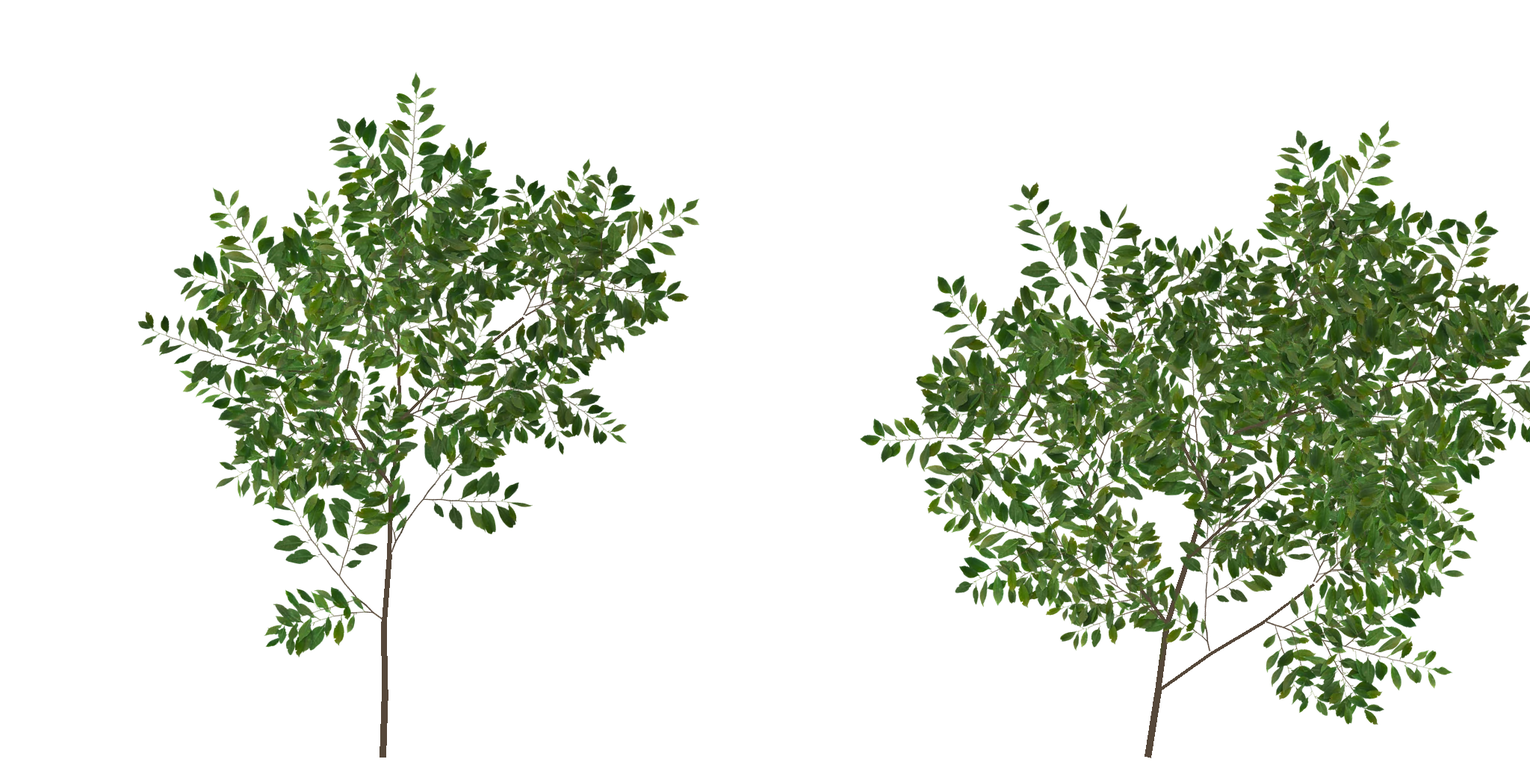
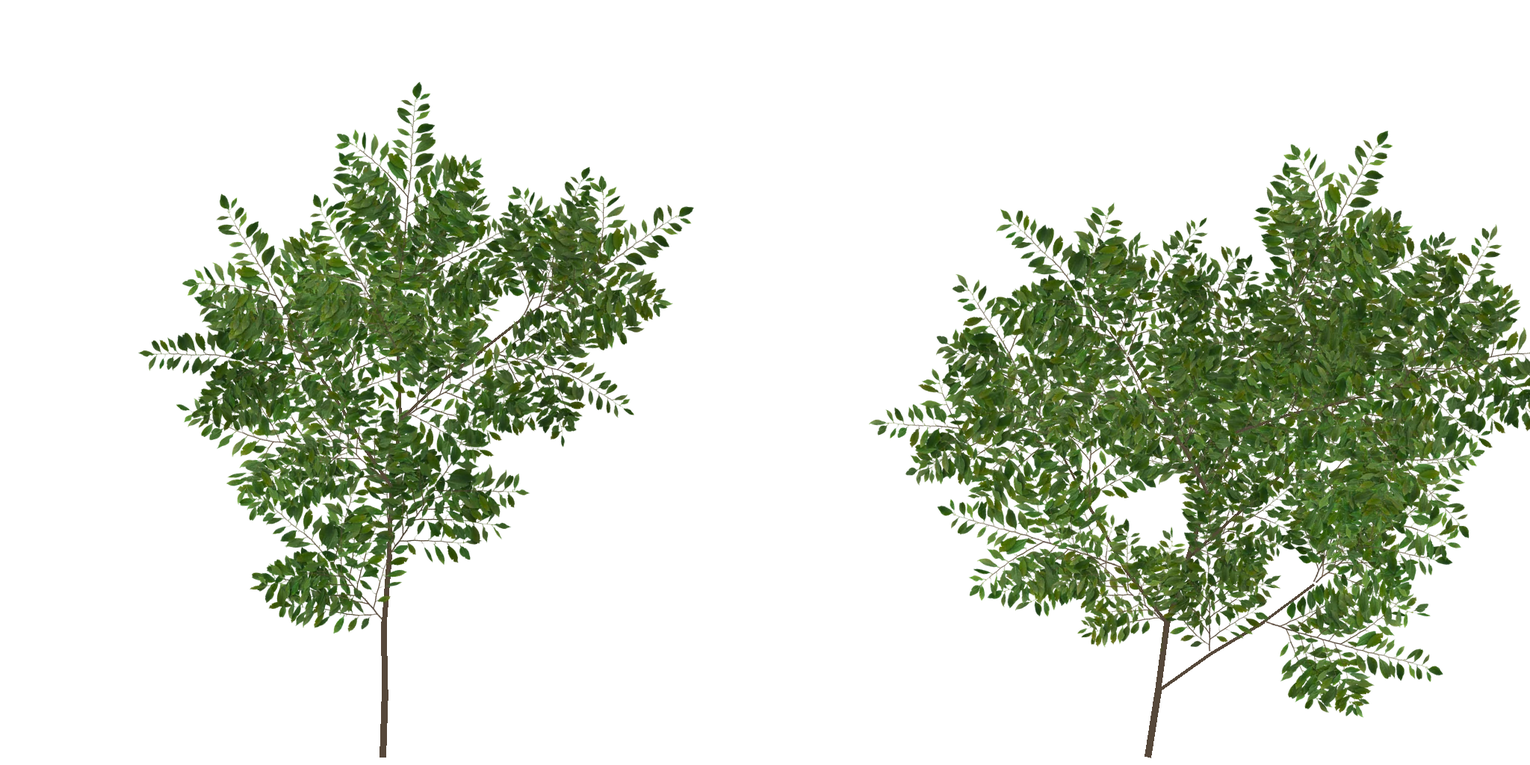
forest-pool: round 11 partial work (stable layout, distant leaf scale, riffle water) — unreviewed
Claude-Session: https://claude.ai/code/session_018FYuZc6D6uuurfGoeetqv3

Changed region(s): [[0.5625, 0.1562, 1.0, 0.9375], [0.0938, 0.0938, 0.4688, 0.875]]

diff --git a/forest-pool/src/layout.js b/forest-pool/src/layout.js
@@ -1,0 +1,2 @@
+// Locked forest layout (x, z, lod, type, special). Edit entries here; nothing else reshuffles.
+export const LAYOUT = {"t":[[-17.63,-48.76,"mid","beech",0],[-15.54,-48.01,"mid","young",0],[-19.43,-47.31,"mid","old",0],[13.01,19.19,"near","beech",0],[-27.67,-20.47,"mid","beech",0],[-15.07,28.19,"mid","beech",0],[-24.65,-41.01,"mid","beech",0],[-38.73,-35.73,"mid","snag",0],[-49.31,-18.42,"mid","old",0],[-48.45,-17.4,"mid","beech",0],[39.11,-26.57,"mid","beech",0],[39.33,-28.34,"mid","beech",0],[37.11,-26.27,"mid","beech",0],[51.05,-3.67,"mid","beech",0],[11.41,-29.35,"near","beech",0],[32.47,30.93,"mid","beech",0],[30.73,31.24,"mid","young",0],[-45.15,-33.54,"mid","snag",0],[-45.61,-31.87,"mid","beech",0],[4.14,23.83,"near","old",0],[10.76,-1.37,"near","young",0],[28.76,40.42,"mid","beech",0],[12.48,-24.72,"near","beech",0],[11.66,-26.96,"near","beech",0],[-27.77,-33.72,"mid","beech",0],[-19.2,13.12,"near","old",0],[24.79,5.63,"near","beech",0],[23.22,5.82,"near","young",0],[27,6.25,"near","old",0],[46.97,20.3,"mid","beech",0],[-17.32,49.19,"mid","beech",0],[4.84,14.31,"near","young",0],[6.06,16.5,"near","beech",0],[-29.41,-12.23,"near","beech",0],[-30.68,-11.69,"mid","young",0],[-28.8,-14.48,"mid","beech",0],[8.23,-42.92,"mid","young",0],[-30.45,38.52,"mid","beech",0],[-3.02,39.85,"mid","snag",0],[-3.09,41.88,"mid","beech",0],[41.94,14.42,"mid","snag",0],[39.63,13.54,"mid","young",0],[40.46,14.94,"mid","young",0],[-45.23,-6.65,"mid","beech",0],[46.79,4.59,"mid","beech",0],[45.14,2.76,"mid","beech",0],[45.98,6.69,"mid","old",0],[34.78,19.03,"mid","beech",0],[-28.65,43.04,"mid","beech",0],[-29.8,41.9,"mid","beech",0],[-36.89,30.35,"mid","beech",0],[-37.55,31.61,"mid","young",0],[-16.66,18.17,"near","old",0],[-16.32,20.02,"near","beech",0],[33.03,-7.73,"mid","beech",0],[-44.87,25.35,"mid","old",0],[-46.6,26.54,"mid","beech",0],[6.55,40.49,"mid","old",0],[-28.39,14.73,"mid","beech",0],[-29.41,13.55,"mid","young",0],[17.57,24.56,"mid","beech",0],[17.28,22.72,"mid","beech",0],[26.74,-19.98,"mid","young",0],[10.55,7.54,"near","beech",0],[16.51,-42.78,"mid","beech",0],[17.17,-44.05,"mid","beech",0],[18.16,-25.44,"near","beech",0],[22.35,-3.86,"near","beech",0],[22.25,-6.42,"near","beech",0],[20.48,-2.14,"near","beech",0],[-41.7,19.32,"mid","snag",0],[-6.85,-10.78,"near","young",0],[-8.47,-12.52,"near","beech",0],[29.47,17.66,"mid","beech",0],[27.54,17.37,"mid","young",0],[8.23,34,"mid","beech",0],[7.36,32.68,"mid","beech",0],[50.61,-17.61,"mid","young",0],[-24.04,-16.32,"near","beech",0],[-24.56,-14.73,"near","beech",0],[-22.43,-17.93,"near","old",0],[-15.68,38.93,"mid","beech",0],[-13.18,-15.91,"near","beech",0],[-12.6,-17.09,"near","young",0],[-13.86,-14.07,"near","beech",0],[39.06,4.48,"mid","beech",0],[40.71,4.45,"mid","young",0],[22.9,-13.76,"near","beech",0],[25.27,-13.86,"near","old",0],[-4.38,-56.05,"mid","snag",0],[-11.55,13.52,"near","beech",0],[24.49,34.88,"mid","young",0],[17.43,-10.78,"near","beech",0],[17,-17.65,"near","old",0],[39.8,-18.77,"mid","beech",0],[39.15,-16.79,"mid","beech",0],[-24.17,39.55,"mid","snag",0],[28.61,-6.01,"near","beech",0],[-0.02,-37.45,"mid","beech",0],[-16.2,-9.18,"near","beech",0],[-16.48,-7.63,"near","young",0],[-18.14,-26.81,"near","beech",0],[-9.94,41.89,"mid","beech",0],[11.25,-47.41,"mid","beech",0],[11.94,-44.82,"mid","beech",0],[13.64,-46.31,"mid","beech",0],[31.05,-23.67,"mid","snag",0],[27.27,43.74,"mid","beech",0],[5.04,51.03,"mid","beech",0],[-14.63,-38.05,"mid","beech",0],[48.48,0.55,"mid","old",0],[-24.37,25.81,"mid","beech",0],[26.2,-8.32,"near","old",0],[44.79,-9.97,"mid","beech",0],[-4.68,46.49,"mid","beech",0],[-22.84,-5.81,"near","beech",0],[-39.8,-5.9,"mid","beech",0],[-38.73,-8.07,"mid","young",0],[-38.07,-5.84,"mid","old",0],[25.75,1.05,"near","beech",0],[-3.16,-21.61,"near","old",0],[-38.3,23.49,"mid","old",0],[-39.62,23.28,"mid","beech",0],[31.56,11.68,"mid","beech",0],[-28.56,-39.4,"mid","young",0],[-29.89,21.81,"mid","young",0],[-34.14,18.47,"mid","beech",0],[16.47,-49.21,"mid","beech",0],[15.74,-50.99,"mid","old",0],[-44.27,-26.22,"mid","young",0],[26.44,-42.17,"mid","beech",0],[-4.13,25.27,"near","beech",0],[-4.65,27.62,"mid","beech",0],[-4.63,22.89,"near","old",0],[19.82,-8.54,"near","old",0],[-6.7,-48.47,"mid","beech",1],[2.82,-39.76,"mid","beech",1],[-6.93,-26.98,"near","old",1],[4.24,-44.82,"mid","old",1],[-8.86,-30.07,"mid","old",1],[8.31,-28.56,"near","old",1],[-13.87,-34.55,"mid","beech",1],[9.93,-51.36,"mid","beech",1],[-4.62,-51.83,"mid","beech",1],[-9.5,-14,"near","snag",1],[8.79,-12.84,"near","snag",1],[93.09,-54.9,"far","beech",0],[-1.84,-146.94,"far","old",0],[118.63,-133.25,"far","beech",0],[-74.63,-9.55,"far","old",0],[-72.34,152.93,"far","young",0],[-116.3,111.94,"far","beech",0],[-135.59,-119.89,"far","beech",0],[-142.87,81.75,"far","old",0],[-32.76,90.82,"far","beech",0],[33.77,-38.85,"far","beech",0],[32.07,153.03,"far","snag",0],[113.15,8.15,"far","beech",0],[-81.46,111.79,"far","snag",0],[-169.58,2.59,"far","young",0],[31.27,80.44,"far","beech",0],[59.05,-106.85,"far","old",0],[78.36,125.45,"far","beech",0],[66.2,98.21,"far","young",0],[-11.76,-138.14,"far","old",0],[75.59,142.66,"far","beech",0],[31.23,66.14,"far","snag",0],[39.91,129.88,"far","young",0],[-1.03,-100.17,"far","beech",0],[-133.6,-69.58,"far","beech",0],[-28.82,-174.12,"far","snag",0],[61.52,-44.36,"far","beech",0],[83.51,-30.81,"far","beech",0],[-120.44,36.41,"far","old",0],[-54.55,32.6,"far","beech",0],[2.43,67.72,"far","young",0],[-156.79,-40.5,"far","beech",0],[-43.37,-61.77,"far","beech",0],[-157.79,-0.94,"far","beech",0],[-98.91,-33.55,"far","old",0],[-34.15,99.53,"far","beech",0],[112.83,-17.22,"far","beech",0],[-140.56,102.23,"far","beech",0],[-114.29,-57.27,"far","young",0],[-51.88,72.15,"far","old",0],[172.44,-21.16,"far","old",0],[70.39,-88.83,"far","beech",0],[-40.45,-44.15,"far","beech",0],[-92.55,-68.02,"far","beech",0],[-10.54,132.27,"far","young",0],[-28.68,-161.96,"far","old",0],[15.63,71.71,"far","beech",0],[26.09,118.93,"far","snag",0],[161.65,-43.99,"far","beech",0],[-62.3,11.97,"far","beech",0],[-56.76,-56.63,"far","beech",0],[25.88,-150.55,"far","beech",0],[154.29,-77.81,"far","young",0],[55.13,30.98,"far","snag",0],[-14.34,148.02,"far","old",0],[139.41,10.93,"far","beech",0],[-1.7,118.83,"far","beech",0],[133.35,-115.67,"far","beech",0],[101.27,-59.17,"far","beech",0],[32.07,132.29,"far","young",0],[-41.44,76.06,"far","old",0],[35.55,-155.24,"far","beech",0],[-80.03,79.69,"far","beech",0],[56.2,-169.45,"far","beech",0],[-49.65,123.41,"far","beech",0],[-13.08,122.63,"far","beech",0],[93.6,107.75,"far","old",0],[-115.99,-94.33,"far","young",0],[79.58,105.42,"far","beech",0],[-82.13,-94.21,"far","old",0],[31.18,-77.59,"far","beech",0],[54.84,166.45,"far","young",0],[-78.47,-124.64,"far","old",0],[16.28,-125.57,"far","young",0],[-36.94,-135.39,"far","beech",0],[54.5,49.08,"far","old",0],[106.12,-19.8,"far","beech",0],[72.87,-146.66,"far","old",0],[14.95,171.46,"far","beech",0],[-21.73,94.81,"far","beech",0],[-100.3,-3.57,"far","old",0],[-18.6,115.8,"far","old",0],[-36.8,-155.07,"far","old",0],[-172.91,33.86,"far","old",0],[54.59,-155,"far","beech",0],[-28.02,-156.39,"far","snag",0],[-143.04,-88.73,"far","old",0],[-71.64,25.93,"far","young",0],[-16.01,161.17,"far","young",0],[67.23,-7.49,"far","beech",0],[-5.4,-163.99,"far","young",0],[-75.65,-100.36,"far","beech",0],[-98.98,16.81,"far","beech",0],[50.3,-44.48,"far","old",0],[39.88,-74.83,"far","young",0],[-68.25,125.73,"far","beech",0],[-73.82,-73.76,"far","beech",0],[76.76,-58.87,"far","old",0],[73.16,130.28,"far","old",0],[160.13,13.17,"far","beech",0],[160.12,72.07,"far","beech",0],[-109.04,-48.2,"far","old",0],[70.75,-129.51,"far","young",0],[-91.79,-84.54,"far","beech",0],[-41.32,-89.14,"far","beech",0],[5.29,-78.2,"far","snag",0],[56.88,38.46,"far","young",0],[-80.88,-161.16,"far","beech",0],[69.24,74.84,"far","beech",0],[132.28,-69.21,"far","young",0],[-91.57,49.63,"far","beech",0],[-22.29,-89.68,"far","beech",0],[-159.27,-60.95,"far","beech",0],[21.96,41.96,"far","old",0],[-60.74,89.17,"far","young",0],[84.29,-131.83,"far","beech",0],[119.38,-51.72,"far","old",0],[49.58,133.57,"far","young",0],[22.54,-37.49,"far","snag",0],[-70.6,114.02,"far","snag",0],[166.52,11.19,"far","snag",0],[-87.41,-123.28,"far","snag",0],[76.93,26.52,"far","beech",0],[-49.94,-57.71,"far","beech",0],[42.24,139.87,"far","beech",0],[-28.98,162.95,"far","beech",0],[34.46,115.37,"far","young",0],[22.68,63.85,"far","beech",0],[-120.12,55.42,"far","beech",0],[3.58,162.13,"far","beech",0],[4.18,86.73,"far","snag",0],[93.29,93.52,"far","beech",0],[121.43,26.84,"far","beech",0],[94.56,57.63,"far","old",0],[10.8,-150.73,"far","young",0],[50.29,-53.97,"far","old",0],[135.46,-11.73,"far","snag",0],[28.6,145.52,"far","beech",0],[-102.42,-67.04,"far","young",0],[36.45,-143.91,"far","old",0],[-129.77,66.01,"far","beech",0],[30.35,-58.53,"far","beech",0],[171.99,-41.81,"far","young",0],[4.7,142.38,"far","old",0],[50.77,87.23,"far","old",0],[-51.98,-143.41,"far","beech",0],[151.18,35.79,"far","beech",0],[72.39,-4.59,"far","beech",0],[-111.96,-24.58,"far","old",0],[40.17,22.14,"far","young",0],[34.34,125.53,"far","beech",0],[-48.16,62.47,"far","young",0],[100.19,75.46,"far","beech",0],[-128.88,45.11,"far","snag",0],[-139.61,38.9,"far","young",0],[-144.79,98.83,"far","snag",0],[-76.19,-163.98,"far","beech",0],[-16.95,172.99,"far","beech",0],[47.23,166.16,"far","beech",0],[-33.08,-83.62,"far","beech",0],[26.36,-71.23,"far","beech",0],[42.48,-46.92,"far","beech",0],[56.37,-8.36,"far","snag",0],[157.92,-33.23,"far","old",0],[-43.37,12.98,"far","old",0],[42.33,-2.59,"far","beech",0],[-83.77,-43.16,"far","young",0],[78.75,-162.92,"far","old",0],[-120.29,78.89,"far","snag",0],[-62.8,-58.13,"far","beech",0],[90.54,-35.27,"far","young",0],[-78.67,129.72,"far","beech",0],[61.13,-115.47,"far","young",0],[68.98,-34.73,"far","old",0],[-119.55,-103.01,"far","beech",0],[-0.23,129.73,"far","old",0],[-24.34,-68.2,"far","beech",0],[-79.82,-83.69,"far","old",0],[-164.27,-53.2,"far","old",0],[-26.53,82.52,"far","beech",0],[57.86,-124.42,"far","beech",0],[58.61,19.73,"far","young",0],[-40.29,-95.92,"far","beech",0],[-154.37,21.72,"far","old",0],[-5.23,150.37,"far","young",0],[73.07,40.61,"far","old",0],[-65.92,-110.72,"far","old",0],[98.39,-18.61,"far","beech",0],[135.57,76.75,"far","old",0],[31.33,161.52,"far","old",0],[-115.69,62.87,"far","snag",0],[-106.86,59.57,"far","young",0],[-86.31,62.27,"far","beech",0],[-94.2,-106.74,"far","beech",0],[-132.9,-114.89,"far","beech",0],[-96.66,-86.15,"far","beech",0],[-173.36,-24.58,"far","beech",0],[-74.26,49.5,"far","beech",0],[-64.12,-7.45,"far","old",0],[167.18,47.65,"far","beech",0],[80.73,67.65,"far","beech",0],[17.96,103.27,"far","young",0],[-15.45,-59.74,"far","beech",0],[-73.49,-114.63,"far","beech",0],[-53.43,-4.41,"far","beech",0],[-149.75,-69.16,"far","young",0],[101.27,16.28,"far","beech",0],[104.83,116.13,"far","young",0],[-157.17,69.05,"far","beech",0],[105.98,-2.03,"far","young",0],[-9.96,-104.08,"far","young",0],[143.49,32.6,"far","beech",0],[35.96,-118.32,"far","old",0],[166.2,36.65,"far","beech",0],[36.69,-165.28,"far","old",0],[28.85,95.13,"far","old",0],[-91.81,-51.35,"far","old",0],[-33.39,127.44,"far","beech",0],[-50.23,149.35,"far","beech",0],[-121.34,25.59,"far","young",0],[-149.33,-74.39,"far","old",0],[-24.55,46.35,"far","old",0],[31.53,-48.89,"far","young",0],[-114.64,-133.95,"far","beech",0],[-155.7,32.04,"far","beech",0],[-84.49,-3.09,"far","old",0],[-70.42,55.05,"far","beech",0],[-135.66,-15.26,"far","old",0],[172.73,-5.84,"far","old",0],[98.46,52.38,"far","beech",0],[53.78,-148.82,"far","old",0],[22.89,108.84,"far","young",0],[138.87,-36.3,"far","beech",0],[121.99,-87.7,"far","beech",0],[112.43,112.04,"far","old",0],[145.93,-70.79,"far","beech",0],[-79.46,120.02,"far","beech",0],[129.22,-45.21,"far","old",0],[-173.99,16.9,"far","old",0],[-58.01,-140.4,"far","old",0],[-83.26,139.32,"far","beech",0],[-160.23,25.68,"far","beech",0],[-161.62,-42.44,"far","old",0],[96.44,19.31,"far","old",0],[138.41,-93.25,"far","old",0],[-121.87,121.06,"far","beech",0],[-11.92,-65.63,"far","beech",0],[22.77,-63.25,"far","beech",0],[48.41,-167.86,"far","beech",0],[-91.17,33.22,"far","old",0],[103.61,-45.55,"far","beech",0],[-96.01,90.59,"far","young",0],[-88.8,-12.71,"far","old",0],[11.84,67.03,"far","snag",0],[54.98,4.7,"far","old",0],[116.5,-102.94,"far","old",0],[-90.91,96.98,"far","beech",0],[-45.15,-139.33,"far","young",0],[-112.54,101.75,"far","old",0],[56.84,-78.1,"far","beech",0],[60.1,140.66,"far","young",0],[-85.92,46.09,"far","old",0],[-16.75,-76.42,"far","beech",0],[-77.43,-106.78,"far","old",0],[-112.17,-76.43,"far","beech",0],[-139.9,-38.01,"far","old",0],[-132.72,-60.24,"far","beech",0],[43.85,31.16,"far","old",0],[2.19,-168.28,"far","young",0],[-135.1,-85.01,"far","old",0],[13.01,133.7,"far","beech",0],[112.04,72.62,"far","beech",0],[66.91,-23.48,"far","beech",0],[-22.74,123.41,"far","beech",0],[-138.2,55.15,"far","beech",0],[-47.9,-122.41,"far","beech",0],[-24.47,131.99,"far","beech",0],[-38.31,-79.69,"far","old",0],[29.28,-145.06,"far","young",0],[-153.63,-19.59,"far","snag",0],[-156.5,-85.82,"far","beech",0],[121.34,-36.87,"far","beech",0],[54.5,-72.47,"far","beech",0],[142.52,-8.27,"far","beech",0],[-153.85,65.03,"far","beech",0],[-164.11,51.57,"far","young",0],[82.52,-19.91,"far","old",0],[14.41,-169.25,"far","beech",0],[67.93,112.57,"far","beech",0],[65.69,-58.63,"far","young",0],[59.99,-144.42,"far","beech",0],[-71.07,31.24,"far","beech",0],[106.22,107.12,"far","beech",0],[57.22,95.28,"far","beech",0],[-50.15,15.63,"far","old",0],[-88.13,-91.94,"far","old",0],[47.93,59.09,"far","old",0],[54.99,-64.89,"far","young",0],[119.25,49.37,"far","beech",0],[-10.13,-172.79,"far","young",0],[98.27,-31.43,"far","old",0],[-30.4,28.95,"far","beech",0],[149.29,3.11,"far","beech",0],[-35.13,116.96,"far","old",0],[28.76,89.74,"far","old",0],[45.27,112.36,"far","snag",0],[155.6,9.7,"far","beech",0],[-105.96,-4.81,"far","beech",0],[-93.88,-20.06,"far","old",0],[116.39,115.92,"far","young",0],[-96.65,28.99,"far","beech",0],[66.41,68.97,"far","beech",0],[103.86,139.38,"far","young",0],[79.1,-151.6,"far","beech",0],[76.29,-69.29,"far","snag",0],[45.88,102.97,"far","old",0],[98.14,33.21,"far","old",0],[10.65,-177.01,"far","beech",0],[52.37,17.59,"far","beech",0],[44.69,90.67,"far","old",0],[-140.78,-75.76,"far","beech",0],[59.5,-23.3,"far","beech",0],[-141.63,25.89,"far","beech",0],[-124.84,-104.27,"far","snag",0],[-106.95,115.6,"far","beech",0],[-16.98,75.31,"far","beech",0],[131.92,22.23,"far","beech",0],[-70.6,-108.29,"far","young",0],[29.92,54.63,"far","beech",0],[137.2,-25.73,"far","beech",0],[-41.16,-142.75,"far","beech",0],[72.04,8.13,"far","old",0],[-24.07,-113.19,"far","old",0],[130,33.84,"far","beech",0],[-108.41,136.5,"far","old",0],[46.66,-95.07,"far","beech",0],[75.15,-31.15,"far","old",0],[123.64,62.57,"far","old",0],[-50.3,90.11,"far","old",0],[9.17,-170.48,"far","snag",0],[149.15,-33.71,"far","old",0],[35.41,-93.17,"far","beech",0],[56.52,-131.89,"far","beech",0],[62.39,145.15,"far","beech",0],[-175.07,4.5,"far","beech",0],[82.63,-126.11,"far","old",0],[-56.91,-127.7,"far","beech",0],[101.68,43.32,"far","young",0],[48.08,25.18,"far","beech",0],[-64.21,68.82,"far","snag",0],[86.42,13.39,"far","old",0],[-93.51,-126.5,"far","beech",0],[81.94,24.1,"far","young",0],[-174.66,-50.2,"far","beech",0],[-12.43,78.71,"far","young",0],[53.43,25.21,"far","snag",0],[-99.7,-147.16,"far","beech",0],[30.26,-94.74,"far","beech",0],[-162.29,14.36,"far","old",0],[-93.96,42.22,"far","old",0],[1.36,108.51,"far","beech",0],[-134.03,22.35,"far","beech",0],[-146.43,-102.91,"far","beech",0],[-14.4,104.67,"far","beech",0],[-5.8,-68.31,"far","old",0],[-66.98,-98.73,"far","snag",0],[128.53,-121.88,"far","old",0],[10.23,122.26,"far","young",0],[-139.87,71.55,"far","snag",0],[-79.83,-8.99,"far","old",0],[99.6,-9.47,"far","beech",0],[-168.52,56.58,"far","young",0],[-91.09,123.24,"far","old",0],[-15.42,136.49,"far","young",0],[-33.28,-115.08,"far","old",0],[-62.93,-20.93,"far","beech",0],[99.6,111.23,"far","old",0],[141.09,-68.45,"far","beech",0],[88.3,-103.83,"far","snag",0],[122.92,-44.49,"far","beech",0],[117.58,-76.3,"far","beech",0]],"s":[[-30.32,-18.71],[-11.82,27.66],[26.45,-31.77],[-8.54,15.6],[29.82,-5.21],[35.67,-20.08],[-37.2,19.75],[17.73,-19.99],[16.17,-3.8],[-7.07,9.32],[-24.96,18.82],[-5.75,12.42],[-13.34,-30.76],[11.48,-6.03],[29.57,0.13],[34.05,21.52],[5.81,3.02],[-18.96,-14.33],[-13.68,14.34],[6.55,37.85],[29.13,-15.26],[32.32,-14.16],[-2.87,-15.71],[15.62,36.47],[10.94,-11.23],[-15.49,-7.37],[32.54,-17.32],[-12.44,13.4],[-23.77,13.22],[-21.58,12.98],[14.74,-33.05],[-32.3,15.5],[18.86,-35.18],[13.33,6.89],[13.6,33.29],[-30.67,-15.28],[-8.17,-21.42],[-31.66,-12.18],[17.97,-1.07],[-20.96,-19.94],[17.64,4.67],[22.36,-33.34],[-10.56,-19.46],[-19.61,34.94],[12.18,12.52],[19.7,-6.82],[-15.92,-18.55],[21.92,-28.8],[26.96,14.11],[37.39,-12.2],[-11.45,-23.56],[-12.55,36.67],[19.16,23.21],[-4.24,36.71],[-15.44,-13.08],[-15.95,-33.99],[13.19,-3.08],[13.98,-19.09],[38.76,-1.3],[-25.68,-19.6],[-1.54,25.4],[-8.69,29.98],[-14.18,-28.44],[38.02,13.75],[6.52,4.96],[-21.92,-4.63],[9.67,34.17],[40.69,-1.09],[-21.62,-15.9],[34.67,-21.64],[-12.35,11.29],[15.72,-35.88],[-2.51,28.22],[10.15,-5.4],[7.98,7.67],[19.21,-16.25],[27.79,12.21],[20.32,-23.29],[9.73,12.99],[9.98,4.29],[8.06,30.01],[7.23,-44.25],[-32.37,-19.4],[15.37,-2.75],[11.14,3.42],[22.2,30.98],[16.73,-12.73],[6.74,-40.54],[-23.47,20.91],[24.73,-30.95],[13.37,-32.77],[21.95,-24.31],[9.64,-33.24],[-11.97,-15.32],[13.94,17.83]],"b":[[-27.59,-22.41],[-3.25,-12.08],[-26.21,-2.39],[11.26,30.12],[7.9,2.2],[19.18,1.5],[-34.15,-7.75],[7.43,11.41],[30.08,5.55],[-27.09,9.05],[-24.49,7.8],[12.19,20.69],[-14.76,9.75],[-16.62,11.43],[33.18,2.02],[-14.89,-4.63],[-2.3,17.09],[-1.93,22.54],[-15.48,13.12],[-29.56,9.5],[-2.6,-17.81],[12.07,8.72],[-28.2,16.7],[28.84,-8.12],[-15.72,-23.86],[-6.23,-13.5],[19.18,-31.71],[-1.21,31.17],[-20.25,-30.87],[25.07,-5.02],[-33.72,-4.16],[-10.73,24.16],[-32.7,12.14],[8.85,-0.17],[24.83,2.57],[-8.88,8.39],[-12.5,-36.93],[4.14,-35.51],[14.99,-23.52],[-24.86,-21.51],[11.05,-31.1],[13.72,-7.34],[25,-9.45],[13.75,-10.78],[9.89,1.77],[9.57,20.46],[-27.46,-16.58],[-16.86,8.34],[15.01,1.05],[-18.12,-22.32],[16.09,10.61],[12.89,1.58],[13.65,-26.12],[-6.7,25.26],[-18.86,19.26],[-31.09,-21.73],[-31.94,-9.19],[4.54,-32.65],[-7.64,19.85],[14.83,-29.41],[-29.69,-24.4],[32,-9.53],[-29.2,-6.58],[-27.24,13.28],[-15.67,-31.69],[-29.42,-9.48],[13.27,-13.97],[5.52,-4.72],[19.72,-13.78],[-25.45,-25.01],[-28.63,-4.17],[-19.92,9.79],[-15.13,16.37],[25.76,-22.88],[9.69,-21.79],[23.33,0.46],[12.48,25.2],[-18.31,-5.93]]};

diff --git a/forest-pool/src/trees.js b/forest-pool/src/trees.js
@@ -10,6 +10,16 @@ import { heightAt, river, bankE, pathDist, rng, fbm, clamp, lerp, smoothstep, HE
 import { tex, pbr, A } from './textures.js';
 import { chain, wind, underwater, dapple, worldPos, G } from './shaders.js';
 import { leafGeometry, cardGeometry, leafMaterials, cardMaterials, Instances } from './foliage.js';
+import { LAYOUT } from './layout.js';
+
+// Hand edits to the locked layout: { at: [x, z], remove | to: [x, z] | type }.
+const EDITS = [
+  { at: [-3.25, -12.08], remove: true },          // spindly shrub in front of the far-bank viewpoint
+  { at: [10.94, -11.23], remove: true },          // sapling hiding the snag
+  { at: [-8.47, -12.52], to: [-11.4, -15.6] },    // heavy trunk at the left edge of the water's-edge view
+];
+// Dead standing trunks placed where the main views see them.
+const SNAGS = [];
 
 const perlin = new ImprovedNoise();
 const V = (x, y, z) => new THREE.Vector3(x, y, z);
@@ -446,7 +456,7 @@ function crown(axis, r, out, { t0, nL, lenBase, far, mid, tint, tintV, H }) {
 
 // Forest trees come in several characters: tall clean-boled beeches, heavy old trees that fork into
 // co-dominant leaders, slender leaning poles with low crowns, and the occasional dead snag.
-function forestTree(x, z, r, out, kind, force = null) {
+function forestTree(x, z, r, out, kind, force = null, special = false) {
   const y0 = heightAt(x, z);
   const far = kind === 'far', mid = kind === 'mid';
   const k = r();
@@ -454,11 +464,11 @@ function forestTree(x, z, r, out, kind, force = null) {
   let H = 21 + r() * 9, R = 0.15 + Math.pow(r(), 3) * 0.42;        // many slim stems, few stout ones
   if (type === 'old') { H = 25 + r() * 8; R = 0.4 + r() * r() * 0.22; }
   if (type === 'young') { H = 10 + r() * 7; R = 0.07 + H * 0.006 + r() * 0.03; }
-  if (type === 'snag') { H = force ? 11 + r() * 3 : 7 + r() * 9; R = force ? 0.3 : 0.2 + r() * 0.2; }
+  if (type === 'snag') { H = special ? 12 + r() * 3 : 7 + r() * 9; R = special ? 0.3 : 0.2 + r() * 0.2; }
   // Trees on the bank lean out over the water toward the light; everything else leans a few degrees its own way.
   const rv = river(x, z);
   const e = Math.abs(rv.d) - rv.w;
-  const toward = -Math.sign(rv.d) * smoothstep(9, 1.5, e) * (0.05 + r() * 0.13) * (force ? 0.25 : 1);
+  const toward = -Math.sign(rv.d) * smoothstep(9, 1.5, e) * (0.05 + r() * 0.13) * (special && type !== 'snag' ? 0.25 : 1);
   const la = r() * 6.283, lm = (type === 'young' ? 0.06 + r() * 0.16 : 0.02 + r() * 0.1) * (far ? 1.7 : 1);
   const lx = -rv.tz * toward + Math.cos(la) * lm, lz = rv.tx * toward + Math.sin(la) * lm;
   const ctrl = [];
@@ -476,7 +486,7 @@ function forestTree(x, z, r, out, kind, force = null) {
   trunk.radiusAt = (t) => (snag ? R * (1 - 0.3 * t) * (1 - 0.8 * smoothstep(0.9, 1.0, t)) : R * (1 - 0.84 * Math.pow(t, 1.25)));
   trunk.swayAt = (t) => (snag ? 0 : (type === 'young' ? 1.4 : 1.0) * Math.pow(Math.max(0, t - 0.1), 2.3));
   // every trunk its own shade of grey: some weathered pale, some dark and wet-looking, a few green with algae
-  const bv = snag ? 1.0 : 0.72 + r() * 0.4, bh = r();
+  const bv = snag ? (special ? 1.7 : 1.0) : 0.72 + r() * 0.4, bh = r();
   const tintV = [bv * (0.96 + bh * 0.08), bv * (0.98 + (1 - bh) * 0.06), bv * (0.9 + bh * 0.1)];
   (snag ? out.snags : out.geos).push(tube(trunk, { radial: far ? 7 : type === 'young' ? 9 : 14, flare: far ? 0 : type === 'old' ? 1.6 : 1.15, flareLobes: 4 + Math.floor(r() * 3), flareH: 0.45 + R * 0.9, seed: r() * 10, lumps: far ? 0 : snag ? 0.2 : 0.06, knots: far || type === 'young' ? null : addKnots(r, Math.min(8, H * 0.4), 5, R), barkTile: 1.3, ground: y0, tintV }));
   out.contacts.push({ x, z, r: R * 2.6, dark: 0.5, moss: 0.6 });
@@ -487,7 +497,7 @@ function forestTree(x, z, r, out, kind, force = null) {
   }
   if (snag) {
     // broken stubs and one or two dead limbs
-    const stubs = sprout(trunk, { count: 7, t0: 0.3, t1: 0.98, angle: [50, 85], len: () => 0.5 + r() * 1.6, rRatio: 0.4, rTip: 0.02, planar: false, wiggle: 0.3, segs: 3, droop: 0.15 }, r);
+    const stubs = sprout(trunk, { count: special ? 9 : 7, t0: 0.3, t1: 0.98, angle: [50, 85], len: () => (special ? 1.0 : 0.5) + r() * (special ? 2.4 : 1.6), rRatio: 0.4, rTip: 0.02, planar: false, wiggle: 0.3, segs: 3, droop: 0.15 }, r);
     for (const b of stubs) out.snags.push(tube(b, { radial: 5, collar: 0.5, barkTile: 0.7, tintV }));
     return;
   }
@@ -580,98 +590,33 @@ export function createTrees(quality) {
   heroRight(heroR, r);
 
   const forest = { geos: [], small: [], sprays: new Instances(), boughs: new Instances(), sprays2: new Instances(), boughs2: new Instances(), snags: [], leaves: new Instances(), contacts: [], roots: [], crowns: [], realNear: hi };
-  const placed = [{ x: HERO_TREES.left.x, z: HERO_TREES.left.z }, { x: HERO_TREES.right.x, z: HERO_TREES.right.z }];
-  const tooClose = (x, z, d) => placed.some((p) => (p.x - x) ** 2 + (p.z - z) ** 2 < d * d);
-  const okGround = (x, z, margin) => {
-    const rv = river(x, z);
-    if (bankE(x, z, rv) < margin) return false;
-    if (pathDist(x, z) < 1.9) return false;
-    if (Math.hypot(x - 0.2, z - 8.6) < 3.2) return false;        // the viewer's spot on the trail
-    if (ROCKS.some((k) => Math.hypot(k.x - x, k.z - z) < k.r + 0.5)) return false;
-    if (Math.hypot(x + 5.0, z + 6.5) < 3.2) return false;
-    { const t = clamp(((x + 6.5) * -4.5 + (z + 6) * -4.5) / 40.5, 0, 1); if (Math.hypot(x + 6.5 + 4.5 * t, z + 6 + 4.5 * t) < 2.4) return false; }   // no trunk wall at the left edge of the water's-edge view        // room around the far-bank viewpoint (also the left edge of the water's-edge view)
-    // a gap in the canopy up-sun of the trail's end, so a pool of sunlight reaches the path
-    const sx = G.uSunDir.value.x, sz = G.uSunDir.value.z, sl = Math.hypot(sx, sz);
-    const t = clamp(((x - 0.3) * sx + (z - 6.2) * sz) / sl, 8, 19);
-    if (Math.hypot(x - (0.3 + (sx / sl) * t), z - (6.2 + (sz / sl) * t)) < 3.6) return false;
-    return true;
+  // The forest is planted from a locked list (src/layout.js) and every plant grows from its own seed, so moving,
+  // removing or adding one tree changes nothing else.
+  const seedOf = (x, z) => (Math.floor((x * 73.13 + z * 191.7 + 1000) * 1000) >>> 0) || 1;
+  const keep = (x, z, frac) => hi || (Math.abs(Math.sin(x * 51.7 + z * 13.3) * 9973.1) % 1) < frac;
+  const moved = (x, z) => {
+    for (const e of EDITS) if (Math.hypot(x - e.at[0], z - e.at[1]) < 0.06) return e;
+    return null;
   };
-  // Near and middle forest: full trees with twig sprays.
-  let tries = 0, nNear = 0;
-  const nearTarget = hi ? 135 : 80;
-  while (nNear < nearTarget && tries++ < 9000) {
-    const ang = r() * 6.283, rad = 5 + Math.pow(r(), 0.75) * 50;
-    const x = -1 + Math.cos(ang) * rad, z = -3 + Math.sin(ang) * rad;
-    // groves and gaps: trees crowd together in places and leave glades elsewhere
-    const grove = clamp(0.5 + 1.6 * fbm(x * 0.07, z * 0.07, 2, 70), 0, 1);
-    if (r() > 0.25 + 0.75 * grove) continue;
-    if (z < -14 && z > -45 && Math.abs(river(x, z).d) < river(x, z).w + 9 && r() < 0.4) continue;   // keep depth open along the river
-    if (!okGround(x, z, 0.9 + r() * 2.5) || tooClose(x, z, lerp(7.5, 3.4, grove) * (0.75 + r() * 0.5))) continue;
-    placed.push({ x, z }); nNear++;
-    forestTree(x, z, r, forest, Math.hypot(x + 1, z + 3) < (hi ? 30 : 20) ? 'near' : 'mid');
-    // trees come up in twos and threes from the same patch of light
-    for (let c = 0, nc = r() < 0.45 ? 1 + Math.floor(r() * 2) : 0; c < nc && nNear < nearTarget; c++) {
-      const ca = r() * 6.283, cd = 1.3 + r() * 1.5, cx = x + Math.cos(ca) * cd, cz = z + Math.sin(ca) * cd;
-      if (!okGround(cx, cz, 0.9) || tooClose(cx, cz, 1.15)) continue;
-      placed.push({ x: cx, z: cz }); nNear++;
-      forestTree(cx, cz, r, forest, Math.hypot(cx + 1, cz + 3) < (hi ? 30 : 20) ? 'near' : 'mid');
-    }
+  let nNear = 0, nFar = 0, nSap = 0, nShrub = 0;
+  for (let [x, z, kind, type, special] of LAYOUT.t) {
+    const e = moved(x, z);
+    if (e) { if (e.remove) continue; if (e.to) { x = e.to[0]; z = e.to[1]; } if (e.type) type = e.type; }
+    if (!keep(x, z, kind === 'far' ? 0.45 : 0.56) && !special) continue;
+    if (kind === 'near' && !hi && Math.hypot(x + 1, z + 3) > 20) kind = 'mid';
+    if (kind === 'far') nFar++; else nNear++;
+    forestTree(x, z, rng(seedOf(x, z)), forest, kind, type, !!special);
   }
-  // Big trees on both banks upstream lean together over the water and close the canopy above the river.
-  for (let i = 0; i < (hi ? 9 : 6); i++) {
-    for (let t2 = 0; t2 < 30; t2++) {
-      const z = -24 - r() * 32, side = i % 2 ? 1 : -1;
-      let x0 = 0; { let best = 1e9; for (let xx = -14; xx <= 14; xx += 0.5) { const d = Math.abs(river(xx, z).d); if (d < best) { best = d; x0 = xx; } } }
-      const x = x0 + side * (river(x0, z).w + 3.2 + r() * 3.5);
-      if (bankE(x, z) < 0.9 || tooClose(x, z, 3.2)) continue;
-      placed.push({ x, z }); nNear++;
-      forestTree(x, z, r, forest, z > -30 ? 'near' : 'mid', r() < 0.45 ? 'old' : 'beech');
-      break;
-    }
+  for (const s of SNAGS) forestTree(s[0], s[1], rng(seedOf(s[0], s[1])), forest, 'near', 'snag', true);
+  for (const [x, z] of LAYOUT.s) {
+    const e = moved(x, z);
+    if ((e && e.remove) || !keep(x, z, 0.47)) continue;
+    nSap++; sapling(x, z, rng(seedOf(x, z)), forest);
   }
-  // Two bleached dead trunks stand where the main views can see them.
-  for (const [sx0, sz0] of [[-9.5, -14.0], [7.6, -13.0]]) {
-    let x = sx0, z = sz0;
-    for (let k = 0; k < 40 && bankE(x, z) < 1.2; k++) { const rv = river(x, z), sg = Math.sign(rv.d) || 1; x += -rv.tz * sg * 0.4; z += rv.tx * sg * 0.4; }
-    placed.push({ x, z });
-    forestTree(x, z, r, forest, 'near', 'snag');
-  }
-  // Far ring: cheaper trees (bough cards only) that close the view and carry the atmospheric depth.
-  let nFar = 0; tries = 0;
-  const farTarget = hi ? 380 : 170;
-  while (nFar < farTarget && tries++ < 9000) {
-    const ang = r() * 6.283, rad = 36 + Math.pow(r(), 0.8) * 144;
-    const x = -1 + Math.cos(ang) * rad, z = -3 + Math.sin(ang) * rad;
-    if (bankE(x, z) < 1.5 || tooClose(x, z, 5.0)) continue;
-    placed.push({ x, z }); nFar++;
-    forestTree(x, z, r, forest, 'far');
-  }
-  // Understory.
-  let nSap = 0; tries = 0;
-  const sapTarget = hi ? 95 : 45;
-  const saps = [];
-  while (nSap < sapTarget && tries++ < 9000) {
-    const ang = r() * 6.283, rad = 3 + Math.pow(r(), 0.9) * 40;
-    const x = -1 + Math.cos(ang) * rad, z = -3 + Math.sin(ang) * rad;
-    if (!okGround(x, z, 0.5) || saps.some((p) => (p.x - x) ** 2 + (p.z - z) ** 2 < 1.6) || tooClose(x, z, 0.9)) continue;
-    if (fbm(x * 0.09, z * 0.09, 2, 40) < -0.08) continue;      // saplings come in thickets
-    if (bankE(x, z) < 3.5 && r() < 0.75) continue;             // not a hedge along the water
-    if (x > -2.4 && x < 3.4 && z > 0.5 && z < 9.5) continue;   // keep the view down the trail to the water open
-    if (Math.hypot(x + 2.3, z - 5.0) < 4.2) continue;          // and the view up into the old tree's crown
-    saps.push({ x, z }); nSap++;
-    sapling(x, z, r, forest);
-  }
-
-  let nShrub = 0; tries = 0;
-  const shrubTarget = hi ? 78 : 26;
-  while (nShrub < shrubTarget && tries++ < 6000) {
-    const ang = r() * 6.283, rad = 6 + Math.pow(r(), 0.8) * 30;
-    const x = -1 + Math.cos(ang) * rad, z = -3 + Math.sin(ang) * rad;
-    if (!okGround(x, z, 0.8) || tooClose(x, z, 1.6) || saps.some((p) => (p.x - x) ** 2 + (p.z - z) ** 2 < 4)) continue;
-    if (Math.hypot(x - 0.2, z - 8.4) < 6 || pathDist(x, z) < 3) continue;
-    if (fbm(x * 0.08 + 20, z * 0.08, 2, 44) < -0.14) continue;
-    saps.push({ x, z }); nShrub++;
-    shrub(x, z, r, forest);
+  for (const [x, z] of LAYOUT.b) {
+    const e = moved(x, z);
+    if ((e && e.remove) || !keep(x, z, 0.34)) continue;
+    nShrub++; shrub(x, z, rng(seedOf(x, z)), forest);
   }
 
   const barkHero = barkMaterial('japanese_hackberry_bark', { tint: [1.5, 1.5, 1.38], desat: 0.5, moss: 0.85, lichen: 0.6, normal: 1.7, mossHeight: 1.3 });

diff --git a/forest-pool/src/water.js b/forest-pool/src/water.js
@@ -3,7 +3,7 @@
 // foam around boulders and over the riffles, and sun glints that respect the canopy's shadow.
 import * as THREE from 'three';
 import { Reflector } from 'three/addons/objects/Reflector.js';
-import { RIVER_SAMPLES, WATER_Y } from './world.js';
+import { RIVER_SAMPLES, WATER_Y, LEDGES } from './world.js';
 import { G, NOISE_GLSL, GOBO_GLSL } from './shaders.js';
 import { tex, A } from './textures.js';
 
@@ -19,6 +19,7 @@ const WaterShader = {
     varying vec3 vW;
     varying vec2 vSD; varying vec2 vT;
     uniform sampler2D tBake; uniform vec4 uBake; uniform float uTime;
+    uniform float uLedges[6];
     void main() {
       vSD = aSD; vT = aT;
       vUv = textureMatrix * vec4(position, 1.0);
@@ -28,12 +29,14 @@ const WaterShader = {
       vec4 bk = texture2D(tBake, (w0.xz - uBake.xy) * uBake.z);
       float k = clamp(bk.a, 0.0, 1.0) * smoothstep(0.3, 1.0, length(bk.gb)) * smoothstep(0.04, 0.22, -bk.r);
       pos.z += k * (0.075 * sin(aSD.y * 3.6 + sin(aSD.x * 2.3) * 1.5) + 0.025 * sin(aSD.x * 5.1 + aSD.y * 1.7 + uTime * 0.6) + 0.02);
+      // water backs up a few centimetres behind each cobble ledge and drops over it
+      for (int i = 0; i < 6; i++) { float ds = aSD.y - uLedges[i]; pos.z += 0.05 * smoothstep(-7.0, -0.6, ds) * (1.0 - smoothstep(-0.3, 0.8, ds)) * smoothstep(0.02, 0.15, -bk.r); }
       vW = (modelMatrix * vec4(pos, 1.0)).xyz;
       gl_Position = projectionMatrix * modelViewMatrix * vec4(pos, 1.0);
     }`,
   fragmentShader: /* glsl */ `
     uniform sampler2D tDiffuse, tRefr, tBake, tWaterN, tFoam, uShadowMap;
-    // (tBake / uBake / uTime are shared with the vertex stage)
+    uniform float uLedges[6];
     uniform mat4 uShadowMatrix;
     uniform vec4 uBake;
     uniform vec2 uRes;
@@ -147,6 +150,8 @@ const WaterShader = {
       // white caps break on the crests of the standing waves
       float crest = sin(q.y * 3.6 + sin(q.x * 2.3) * 1.5);
       foam += smoothstep(0.45, 0.95, crest) * clamp(foamK, 0.0, 1.0) * smoothstep(0.3, 1.0, speed) * (0.35 + 0.65 * ft2.r) * 0.9;
+      // a broken white tongue where the water spills off each ledge
+      for (int i = 0; i < 6; i++) { float ds = q.y - uLedges[i] + 0.5 * (ft.b - 0.5); foam += exp(-(ds - 0.9) * (ds - 0.9) / 0.5) * smoothstep(0.5, 0.95, ft.r * 0.6 + ft2.r * 0.55 + ft2.g * 0.25) * 0.85; }
       foam *= smoothstep(0.03, 0.16, depth);               // no foam film over bare gravel
       // a thin lapping edge along the shore
       float shore = smoothstep(0.06, 0.015, depth) * smoothstep(0.0, 0.015, depth) * ft2.g * ft.r * 0.6;
@@ -199,7 +204,7 @@ export function createWater(quality, sun) {
   m.transparent = true;
   m.depthWrite = false;
   Object.assign(m.uniforms, {
-    tRefr: { value: null }, tBake: G.tBake, uBake: G.uBake, uRes: { value: new THREE.Vector2(1, 1) },
+    uLedges: { value: LEDGES.map((l) => l.s) }, tRefr: { value: null }, tBake: G.tBake, uBake: G.uBake, uRes: { value: new THREE.Vector2(1, 1) },
     tWaterN: { value: tex(A('water_n.jpg'), { srgb: false }) }, tFoam: { value: tex(A('foam.jpg'), { srgb: false }) },
     uTime: G.uTime, uSunDir: G.uSunDir, uSunColor: { value: new THREE.Color(1, 0.95, 0.85).multiplyScalar(4) },
     uShadowMap: { value: null }, uShadowMatrix: { value: sun.shadow.matrix }, uShadowOn: { value: 0 },

diff --git a/forest-pool/src/foliage.js b/forest-pool/src/foliage.js
@@ -92,7 +92,7 @@ function foliageShading(mat, { card, dry = false }) {
           // keep coverage as the cut-out minifies, so distant crowns stay dense instead of dissolving
           vec2 tuv = vMapUv * vec2(textureSize(map, 0));
           float lod = max(0.0, 0.5 * log2(max(dot(dFdx(tuv), dFdx(tuv)), dot(dFdy(tuv), dFdy(tuv)))));
-          diffuseColor.a *= 1.0 + lod * 0.42;
+          diffuseColor.a *= 1.0 + lod * 0.2;
         }` : ''}`)
       .replace('#include <normal_fragment_maps>', `#include <normal_fragment_maps>
         {

diff --git a/forest-pool/src/vegetation.js b/forest-pool/src/vegetation.js
@@ -58,6 +58,7 @@ export function createGroundCover(quality) {
     const h = HERO_TREES[key];
     for (let i = 0; i < 9; i++) { const a = r() * 6.283, d = 0.8 + r() * 1.5; addFern(h.x + Math.cos(a) * d, h.z + Math.sin(a) * d, 0.8 + r() * 0.8); }
   }
+  for (const [fx, fz, fs] of [[-3.7, -9.5, 1.5], [-3.0, -10.4, 1.2], [-4.4, -10.3, 1.3], [-3.4, -11.3, 1.0]]) addFern(fx, fz, fs);   // fern clump by the far-bank viewpoint
   let tries = 0;
   const fernTarget = hi ? 760 : 300;
   while (ferns.length < fernTarget && tries++ < 20000) {

diff --git a/forest-pool/tools/make_leaves.py b/forest-pool/tools/make_leaves.py
@@ -267,7 +267,7 @@ def shoot(cv, x, y, ang, length, leaf_len, depth=0, bare=0.0):
 
 def make_spray(i, size=1024):
     cv = Canvas(size)
-    leaf_len = size * 0.118
+    leaf_len = size * 0.092
     # a main shoot whose lower part carries side shoots, as on a real branch end
     shoot(cv, size * 0.5, size * 0.985, 90 + random.gauss(0, 4), size * random.uniform(0.80, 0.86), leaf_len, 0, bare=[0.42, 0.5, 0.36, 0.46][i])
     return cv
